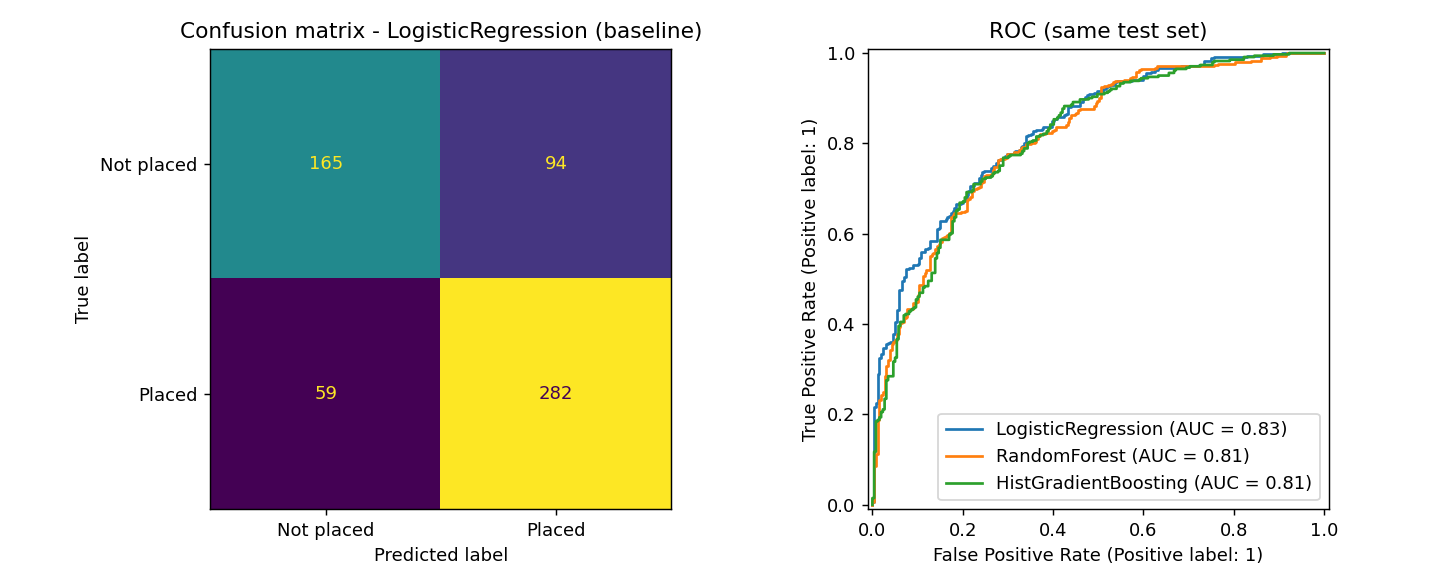
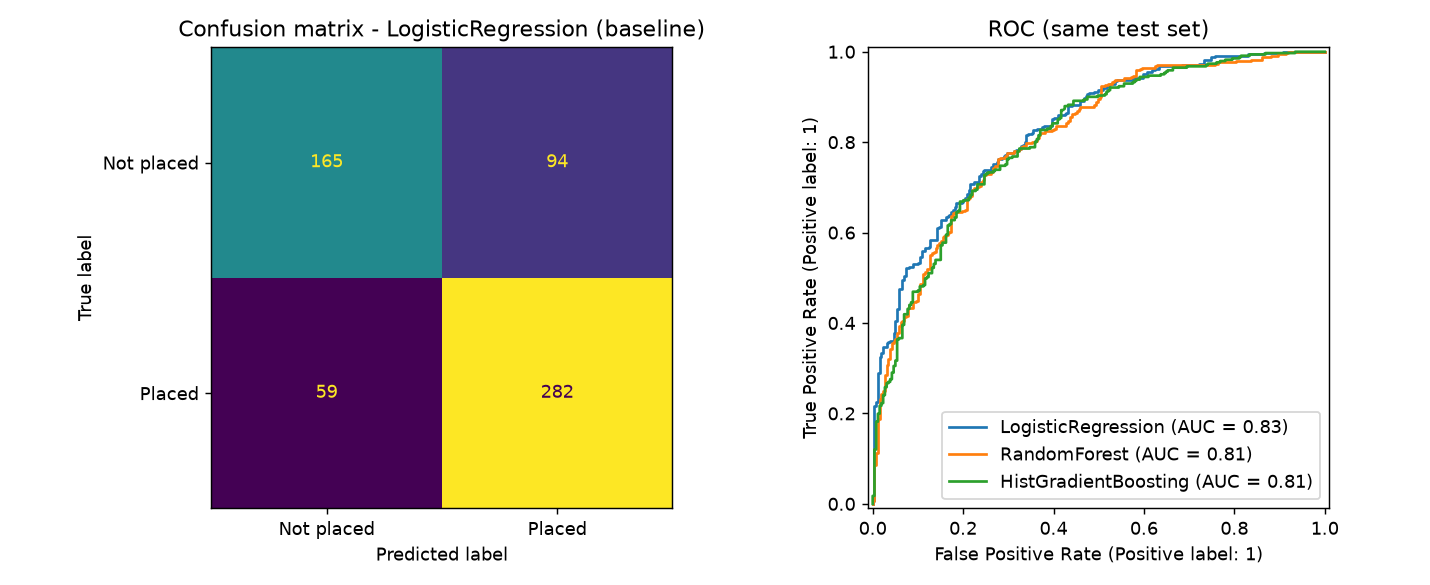
Merge remote changes and push to GitHub

diff --git a/AI_USAGE.md b/AI_USAGE.md
@@ -1,6 +1,6 @@
 # AI Usage
 
-**Tool:** Claude (Anthropic) was used as a coding assistant for scaffolding, implementation and documentation drafts.
+**Tool:** Claude was used as a coding assistant for scaffolding and implementation drafts.
 
 ## What AI did
 - Drafted the dataset generator, preprocessing pipeline, evaluation runner, explanation module, Streamlit app, tests and docs.
@@ -11,10 +11,8 @@
 - The failure analysis was checked against the data: the first version's 25 cases were all borderline (a biased sample), so `confident_errors.csv` and subgroup rates were added.
 - An early script failed (shell brace expansion) and a test used a wrong path; both were fixed and re-run.
 
-## What the student must be able to explain (own-work items)
-`features.py`, `evaluate.py`, `explain.py` - why each step exists, why occlusion explains a prediction, why the baseline won, and why the data being synthetic limits the conclusions.
 
 ## Not done by AI / limitations
 - The dataset is synthetic; no real student data was used.
-- The demo video must be recorded by the student (`DEMO_SCRIPT.md`).
-- Edit this file to reflect your own actual usage before submitting.
+
+
